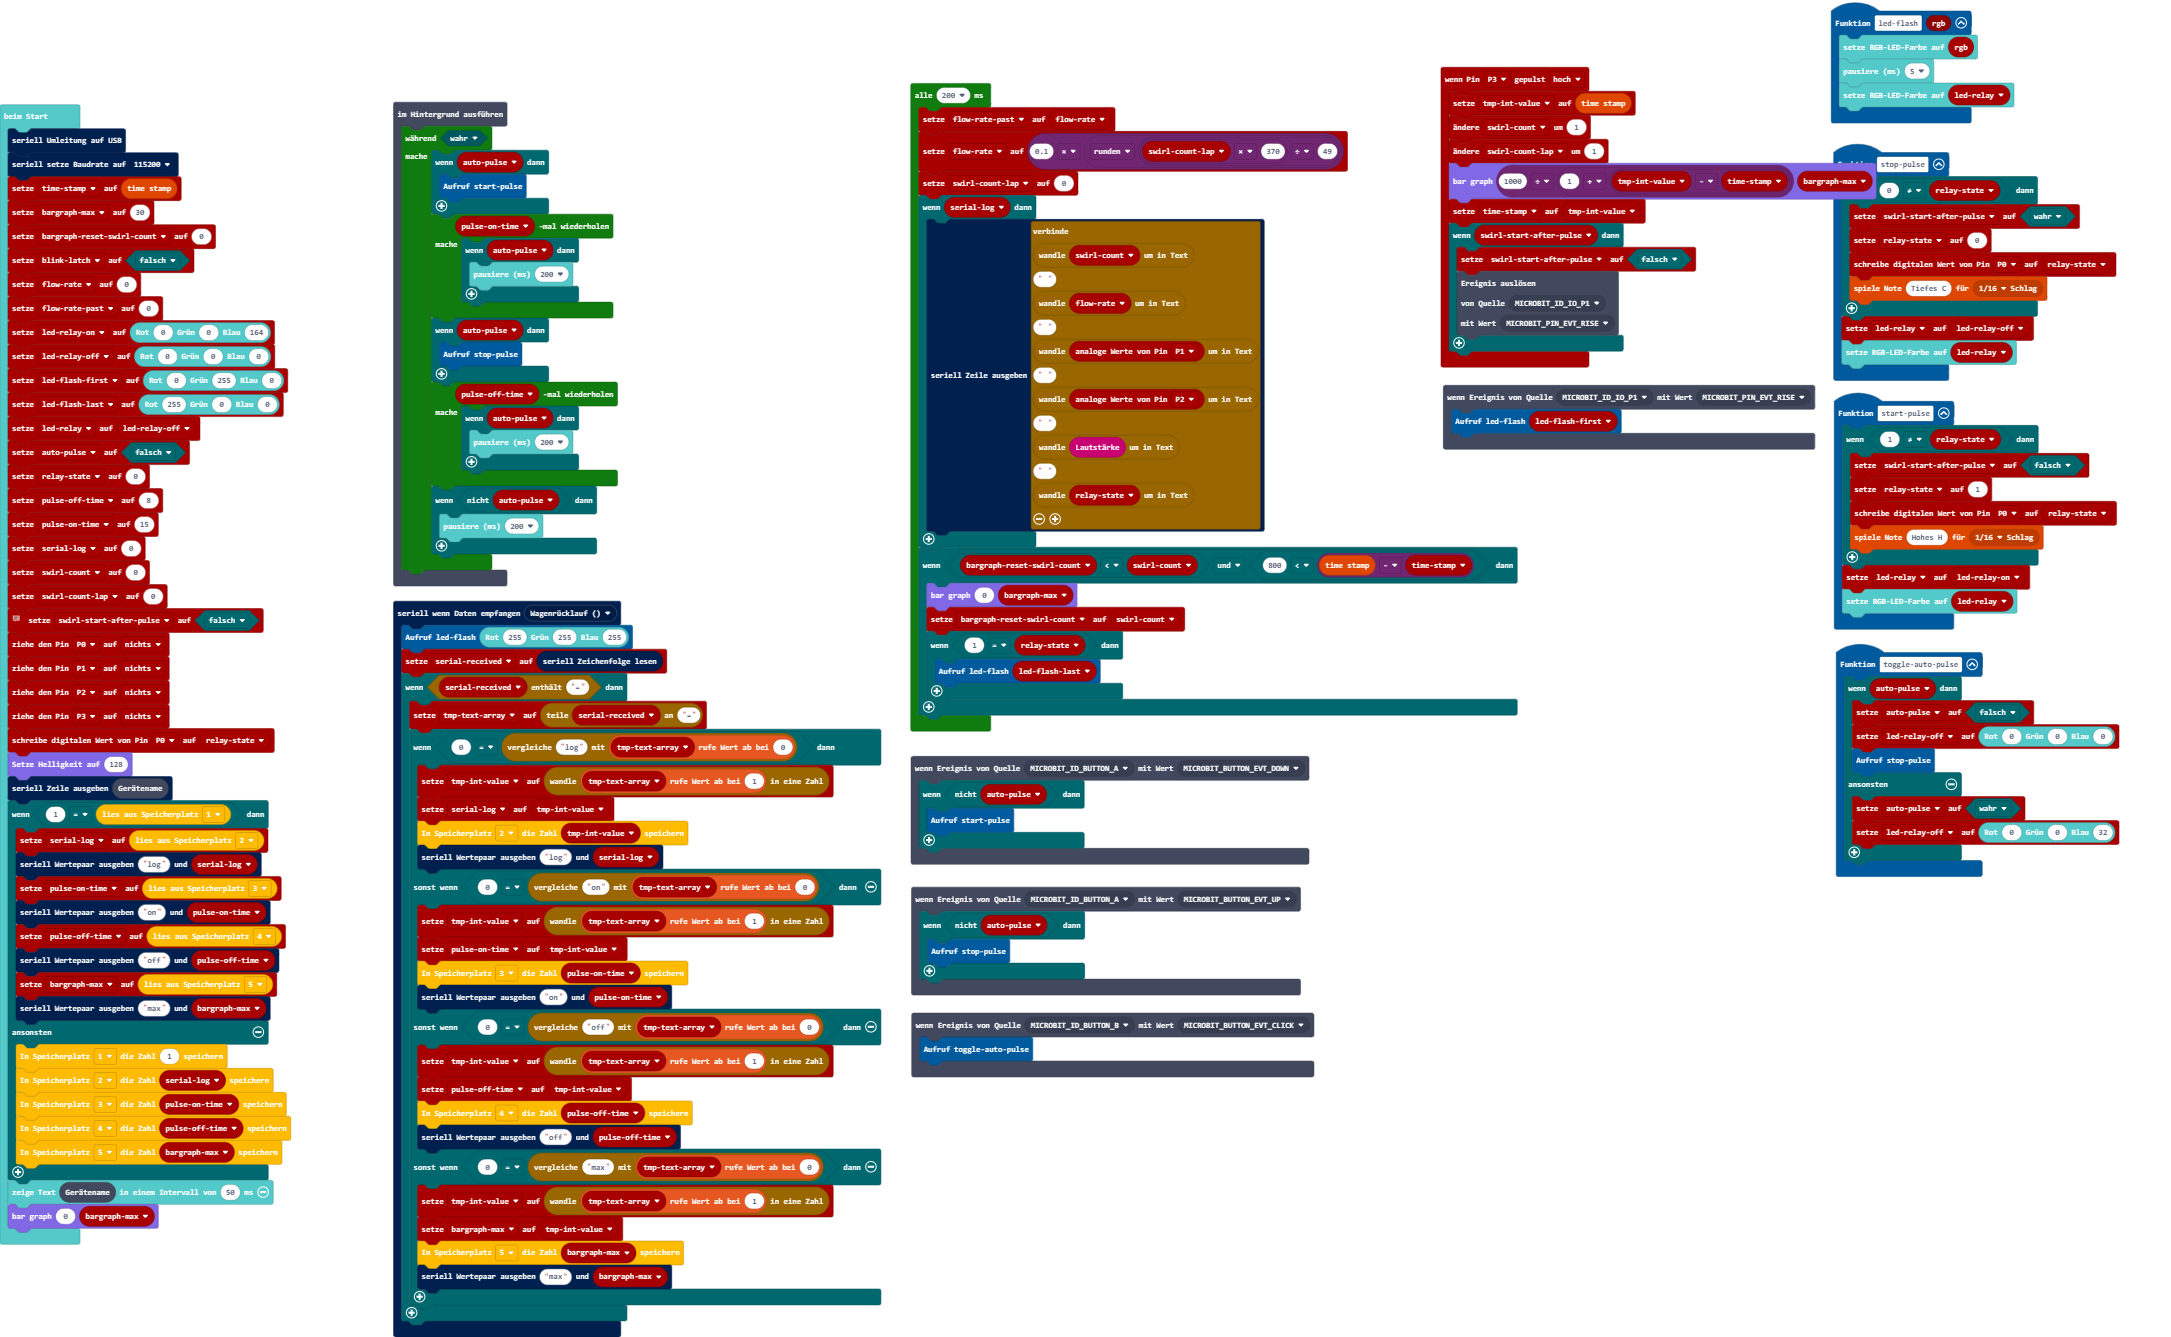
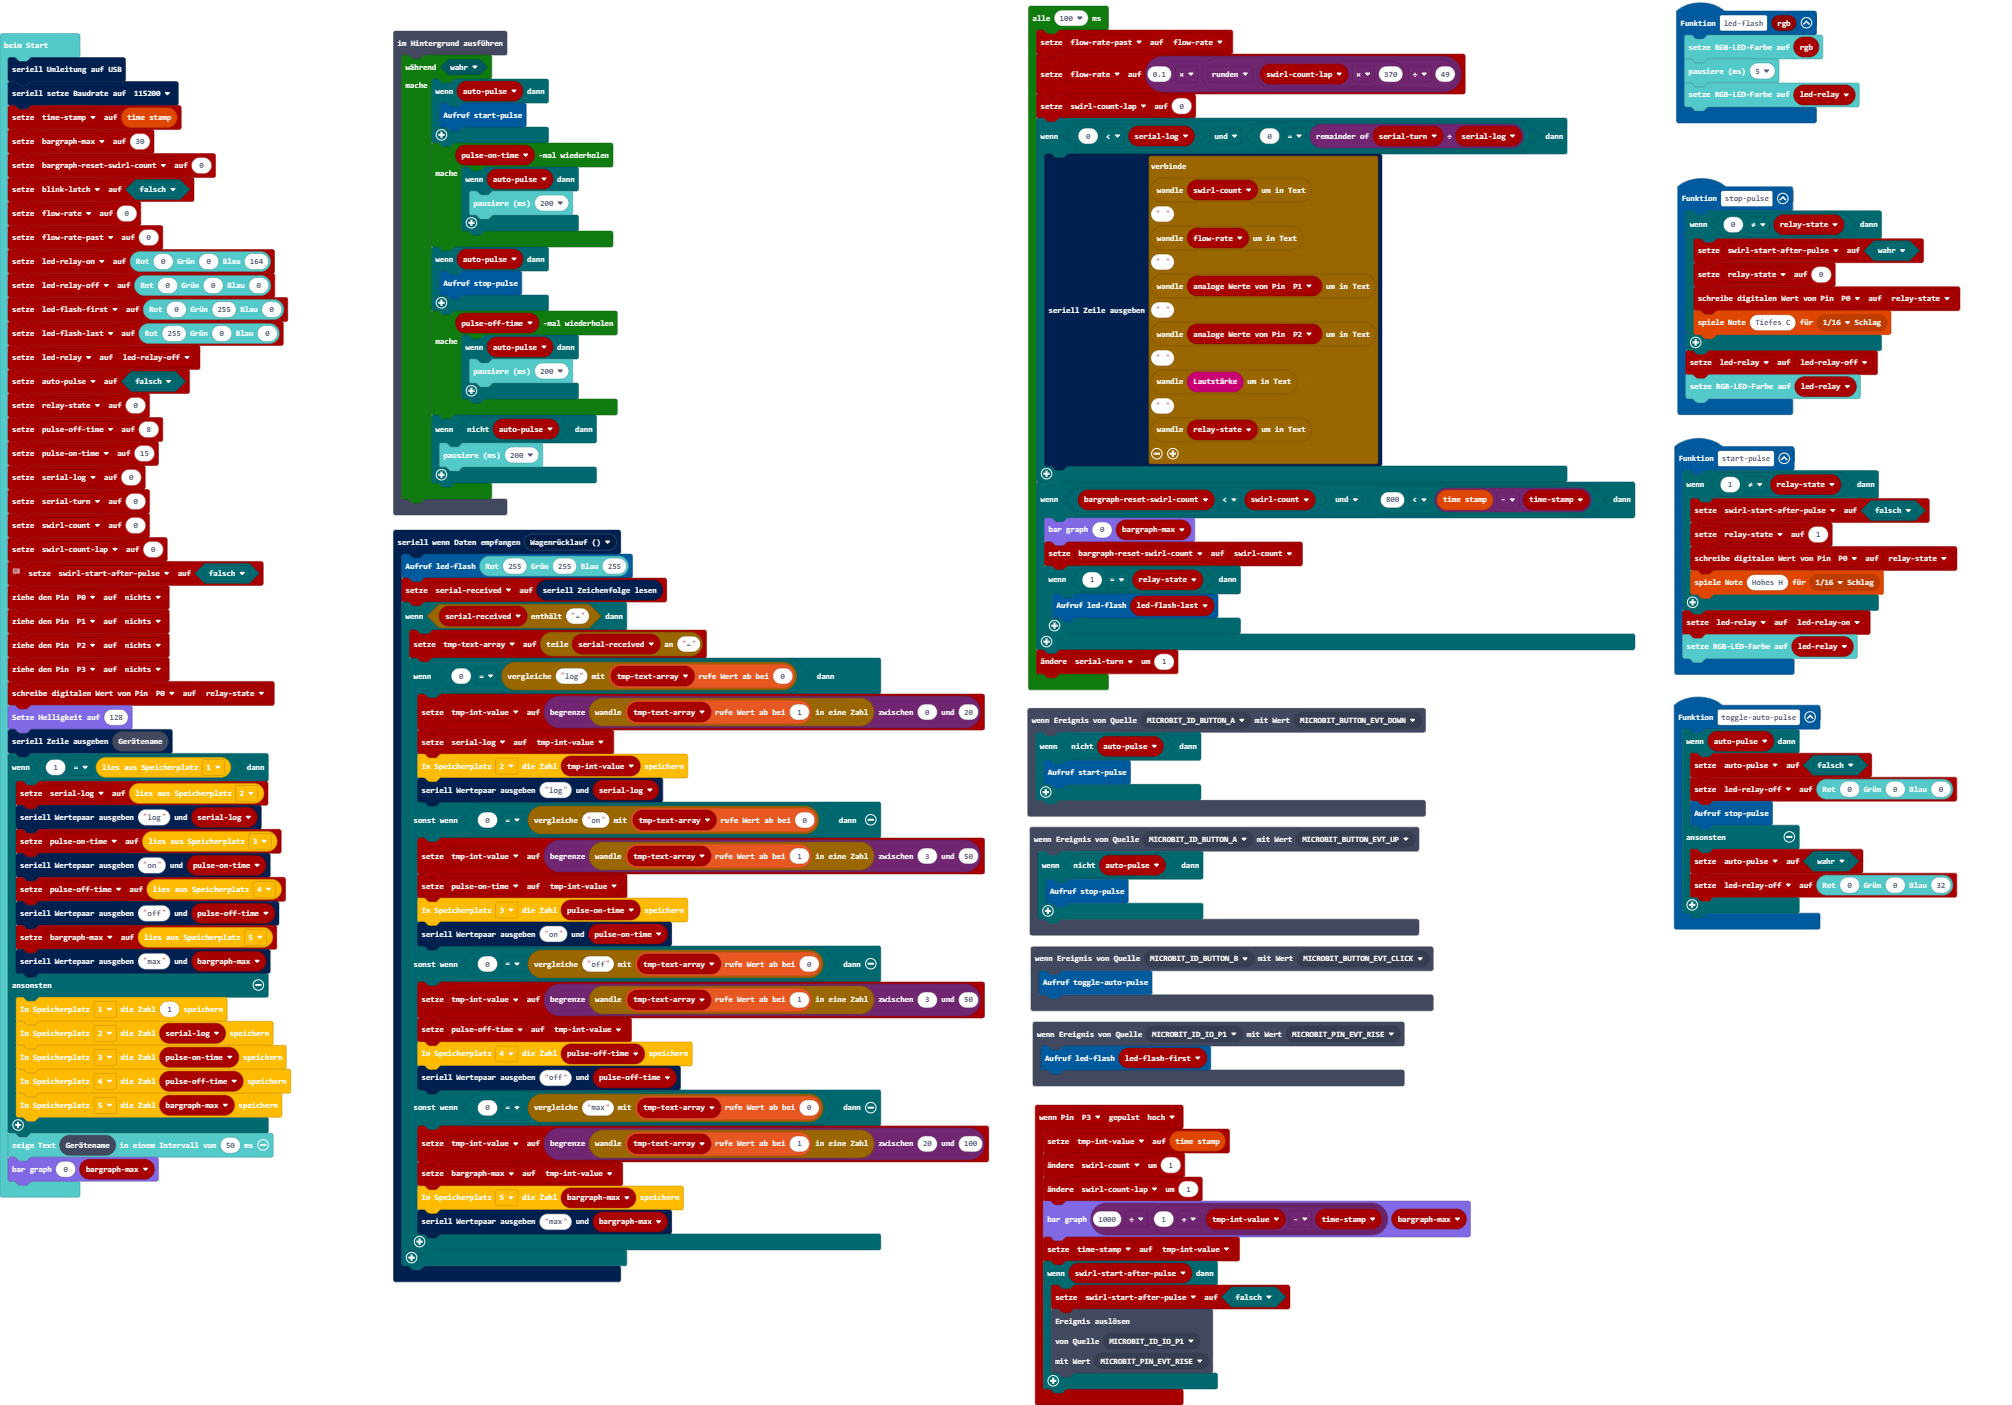
End of day commit.

diff --git a/main.ts b/main.ts
@@ -59,22 +59,22 @@ serial.onDataReceived(serial.delimiters(Delimiters.CarriageReturn), function () 
     if (serialreceived.includes("=")) {
         tmptextarray = serialreceived.split("=")
         if (0 == "log".compare(tmptextarray[0])) {
-            tmpintvalue = parseFloat(tmptextarray[1])
+            tmpintvalue = Math.constrain(parseFloat(tmptextarray[1]), 0, 20)
             seriallog = tmpintvalue
             storage.putNumber(StorageSlots.s2, tmpintvalue)
             serial.writeValue("log", seriallog)
         } else if (0 == "on".compare(tmptextarray[0])) {
-            tmpintvalue = parseFloat(tmptextarray[1])
+            tmpintvalue = Math.constrain(parseFloat(tmptextarray[1]), 3, 50)
             pulseontime = tmpintvalue
             storage.putNumber(StorageSlots.s3, pulseontime)
             serial.writeValue("on", pulseontime)
         } else if (0 == "off".compare(tmptextarray[0])) {
-            tmpintvalue = parseFloat(tmptextarray[1])
+            tmpintvalue = Math.constrain(parseFloat(tmptextarray[1]), 3, 50)
             pulseofftime = tmpintvalue
             storage.putNumber(StorageSlots.s4, pulseofftime)
             serial.writeValue("off", pulseofftime)
         } else if (0 == "max".compare(tmptextarray[0])) {
-            tmpintvalue = parseFloat(tmptextarray[1])
+            tmpintvalue = Math.constrain(parseFloat(tmptextarray[1]), 20, 100)
             bargraphmax = tmpintvalue
             storage.putNumber(StorageSlots.s5, bargraphmax)
             serial.writeValue("max", bargraphmax)
@@ -124,6 +124,7 @@ relaystate = 0
 pulseofftime = 8
 pulseontime = 15
 seriallog = 0
+let serialturn = 0
 let swirlcount = 0
 let swirlcountlap = 0
 // Variable is 'true' after relay has been switched to 'off' until next flow meter pulse is received.
@@ -176,11 +177,11 @@ control.inBackground(function () {
         }
     }
 })
-loops.everyInterval(200, function () {
+loops.everyInterval(100, function () {
     flowratepast = flowrate
     flowrate = 0.1 * Math.round(swirlcountlap * 370 / 49)
     swirlcountlap = 0
-    if (seriallog) {
+    if (0 < seriallog && 0 == serialturn % seriallog) {
         serial.writeLine("" + convertToText(swirlcount) + " " + convertToText(flowrate) + " " + convertToText(pins.analogReadPin(AnalogPin.P1)) + " " + convertToText(pins.analogReadPin(AnalogPin.P2)) + " " + convertToText(input.soundLevel()) + " " + convertToText(relaystate))
     }
     if (bargraphresetswirlcount < swirlcount && 800 < diverseTools.timeStamp() - timestamp) {
@@ -190,4 +191,5 @@ loops.everyInterval(200, function () {
             ledflash(ledflashlast)
         }
     }
+    serialturn += 1
 })
